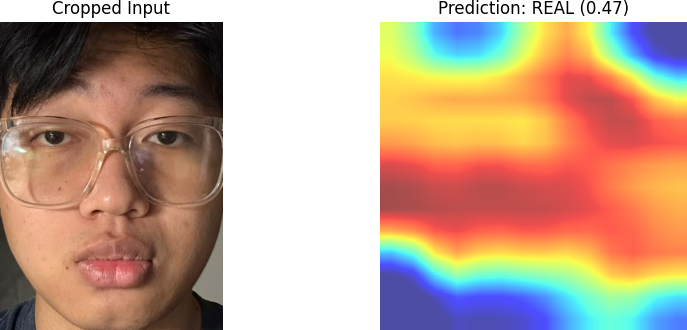
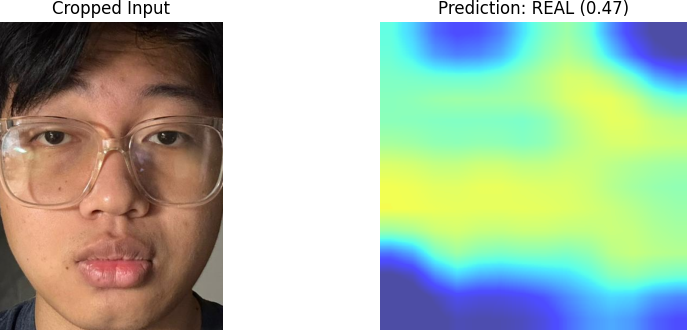
Update visual_map.py: Revert to standard academic visualization (vmax=1) and add new spoof image sample

diff --git a/visual_map.py b/visual_map.py
@@ -55,12 +55,9 @@ def proses_visualisasi(image_path, label_nama):
     plt.axis('off')  
     
     plt.subplot(1, 2, 2)
+
     
-   
-    batas_merah = heatmap.max() 
-    
-    
-    plt.imshow(heatmap, cmap='jet', alpha=0.7, vmin=0.1, vmax=batas_merah)
+    plt.imshow(heatmap, cmap='jet', alpha=0.7, vmin=0.1, vmax=1)
     plt.title(f"Prediction: {label} ({conf:.2f})")
     plt.axis('off')  
     
@@ -69,4 +66,5 @@ def proses_visualisasi(image_path, label_nama):
 
 if __name__ == "__main__":
     proses_visualisasi("wajah_asli.jpeg", "real")
+    proses_visualisasi("wajah_spoof.jpeg","spoof")
    
